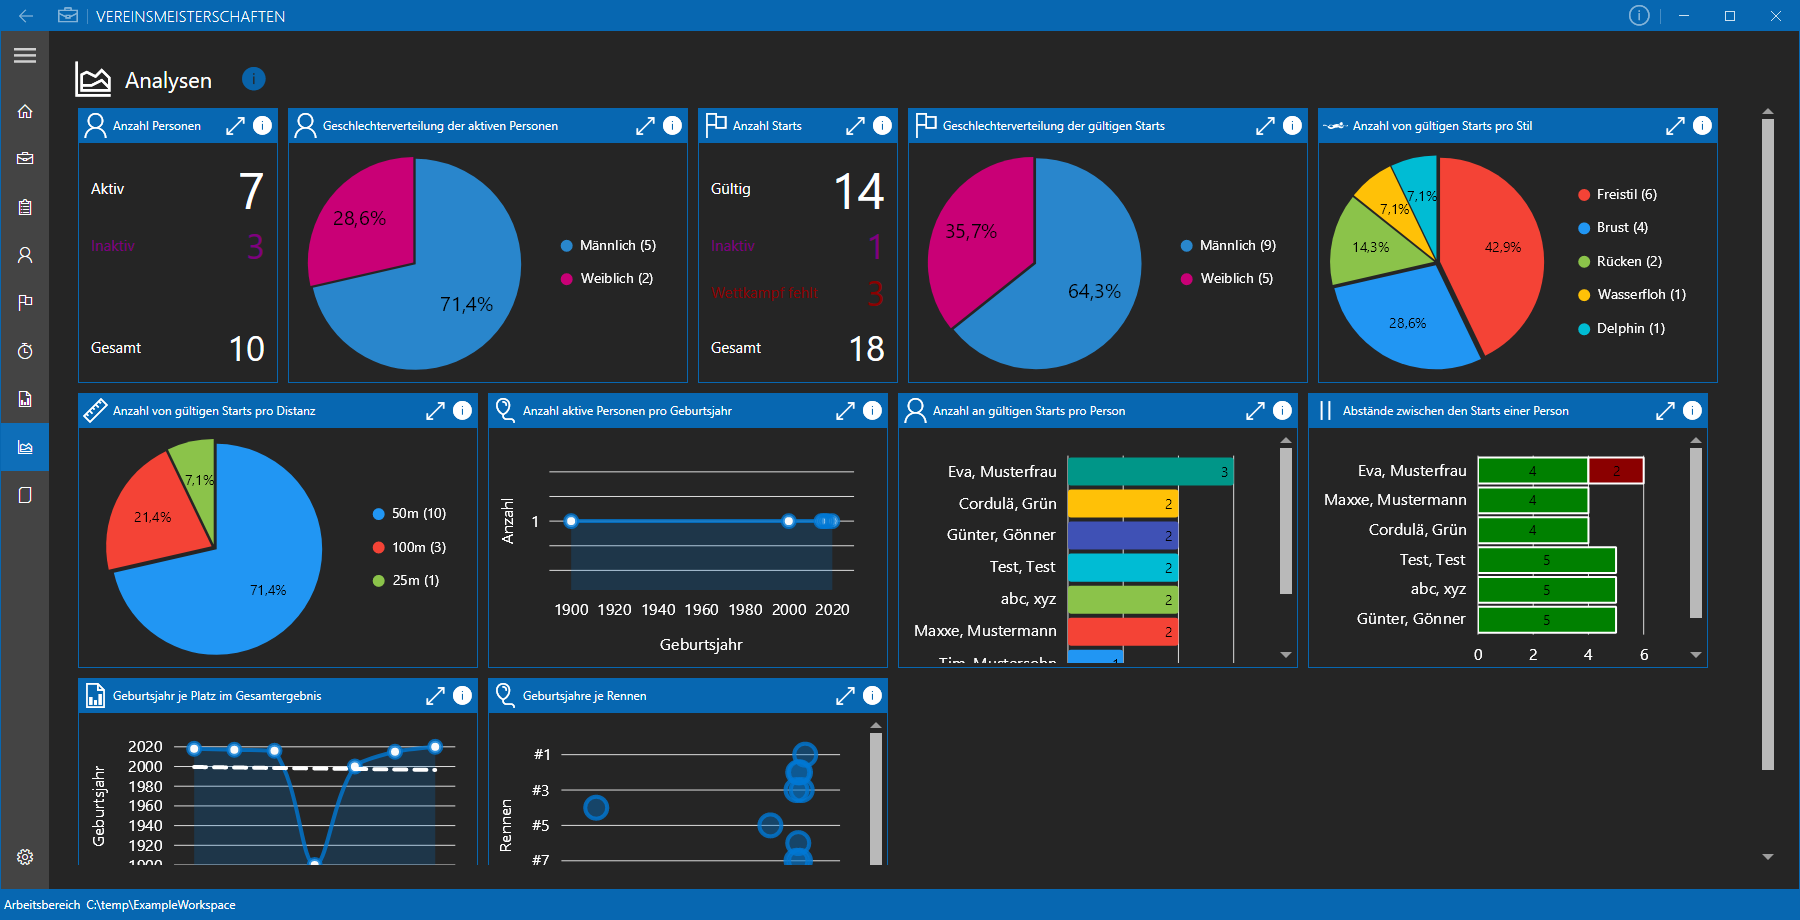
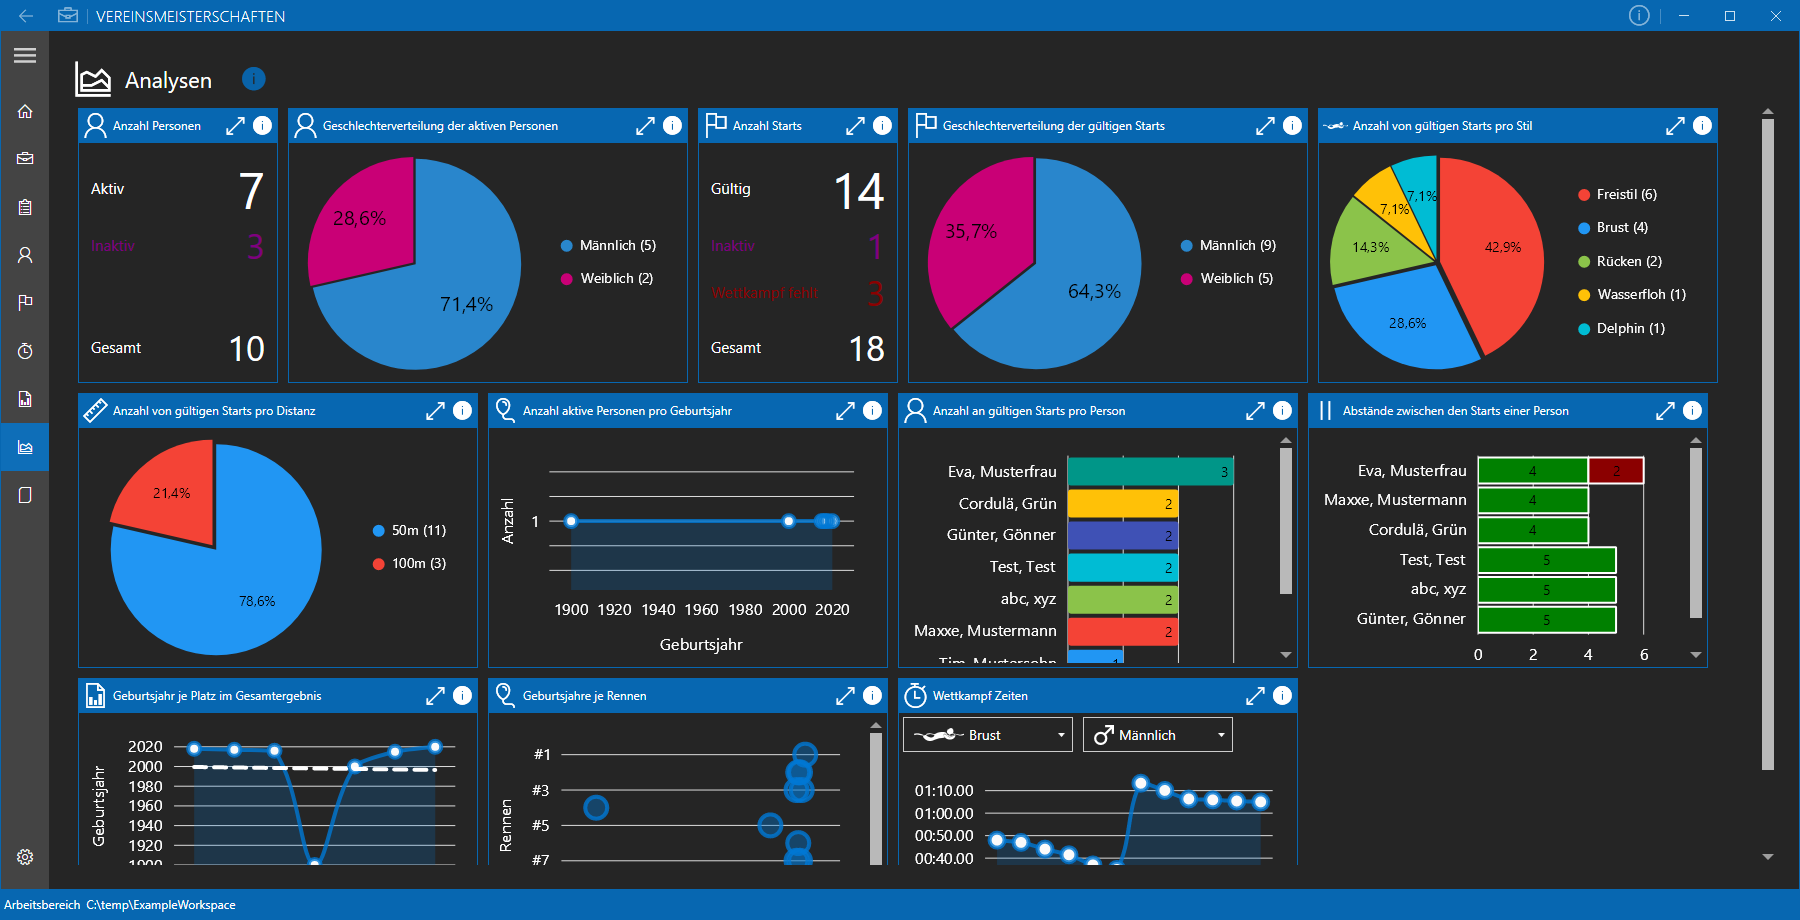
Added diagram for Competition Times vs. Age (#28)

diff --git a/Vereinsmeisterschaften/Views/AnalyticsWidgets/AnalyticsWidgetCompetitionTimes.xaml b/Vereinsmeisterschaften/Views/AnalyticsWidgets/AnalyticsWidgetCompetitionTimes.xaml
@@ -1,0 +1,39 @@
+<local:AnalyticsWidgetBase x:Class="Vereinsmeisterschaften.Views.AnalyticsWidgets.AnalyticsWidgetCompetitionTimes"
+             xmlns="http://schemas.microsoft.com/winfx/2006/xaml/presentation"
+             xmlns:x="http://schemas.microsoft.com/winfx/2006/xaml"
+             xmlns:mc="http://schemas.openxmlformats.org/markup-compatibility/2006" 
+             xmlns:d="http://schemas.microsoft.com/expression/blend/2008" 
+             xmlns:local="clr-namespace:Vereinsmeisterschaften.Views.AnalyticsWidgets"
+             xmlns:liveCharts="clr-namespace:LiveChartsCore.SkiaSharpView.WPF;assembly=LiveChartsCore.SkiaSharpView.WPF"
+             mc:Ignorable="d"
+             DataContext="{Binding RelativeSource={RelativeSource Mode=Self}}"
+             Template="{StaticResource ControlTemplateAnalyticsWidgetBase}">
+
+    <DockPanel LastChildFill="True">
+        <StackPanel DockPanel.Dock="Top" Orientation="Horizontal">
+            <!-- Selection for swimming style -->
+            <ComboBox Width="170" Height="35" VerticalAlignment="Center"
+                      ItemsSource="{Binding AvailableSwimmingStyles}" SelectedItem="{Binding SelectedSwimmingStyle}">
+                <ComboBox.ItemTemplate>
+                    <DataTemplate>
+                        <ContentControl Content="{Binding}" Style="{StaticResource SwimmingStyleWithIconStyle}"/>
+                    </DataTemplate>
+                </ComboBox.ItemTemplate>
+            </ComboBox>
+
+            <!-- Selection for gender -->
+            <ComboBox Margin="10,0,0,0" Width="150" Height="35" VerticalAlignment="Center"
+                      ItemsSource="{Binding Source={StaticResource AvailableGenders}}" SelectedItem="{Binding SelectedGender}">
+                <ComboBox.ItemTemplate>
+                    <DataTemplate>
+                        <ContentControl Content="{Binding}" Style="{StaticResource GenderWithIconStyle}"/>
+                    </DataTemplate>
+                </ComboBox.ItemTemplate>
+            </ComboBox>
+        </StackPanel>
+        
+        <liveCharts:CartesianChart Series="{Binding CompetitionTimesPerAgeSeries}"
+                               XAxes="{Binding XAxes}"
+                               YAxes="{Binding YAxes}"/>
+    </DockPanel>
+</local:AnalyticsWidgetBase>

diff --git a/Vereinsmeisterschaften/Views/AnalyticsWidgets/AnalyticsWidgetCompetitionTimes.xaml.cs b/Vereinsmeisterschaften/Views/AnalyticsWidgets/AnalyticsWidgetCompetitionTimes.xaml.cs
@@ -1,0 +1,144 @@
+using LiveChartsCore;
+using LiveChartsCore.Kernel;
+using LiveChartsCore.Kernel.Events;
+using LiveChartsCore.SkiaSharpView;
+using LiveChartsCore.SkiaSharpView.Painting;
+using SkiaSharp;
+using System.Collections.Generic;
+using System.Windows;
+using System.Windows.Media;
+using Vereinsmeisterschaften.Core.Analytics;
+using Vereinsmeisterschaften.Core.Models;
+
+namespace Vereinsmeisterschaften.Views.AnalyticsWidgets
+{
+    /// <summary>
+    /// Interaktionslogik für AnalyticsWidgetCompetitionTimes.xaml
+    /// </summary>
+    public partial class AnalyticsWidgetCompetitionTimes : AnalyticsWidgetBase
+    {
+        private AnalyticsModuleCompetitionTimes _analyticsModule => AnalyticsModule as AnalyticsModuleCompetitionTimes;
+
+        public AnalyticsWidgetCompetitionTimes(AnalyticsModuleCompetitionTimes analyticsModule) : base(analyticsModule)
+        {
+            _availableSwimmingStyles = Enum.GetValues(typeof(SwimmingStyles)).Cast<SwimmingStyles>().Where(s => s != SwimmingStyles.Unknown).ToList();
+            InitializeComponent();
+        }
+
+        public override string Icon => "\uE916";
+
+        public override void Refresh()
+        {
+            OnPropertyChanged(nameof(CompetitionTimesPerAgeSeries));
+            OnPropertyChanged(nameof(XAxes));
+            OnPropertyChanged(nameof(YAxes));
+            base.Refresh();
+        }
+
+        private List<SwimmingStyles> _availableSwimmingStyles;
+        /// <summary>
+        /// List with all available <see cref="SwimmingStyles"/> without <see cref="SwimmingStyles.Unknown"/>
+        /// </summary>
+        public List<SwimmingStyles> AvailableSwimmingStyles => _availableSwimmingStyles;
+
+        private SwimmingStyles _selectedSwimmingStyle;
+        /// <summary>
+        /// Selected <see cref="SwimmingStyles"/> that is used to display the chart
+        /// </summary>
+        public SwimmingStyles SelectedSwimmingStyle
+        {
+            get => _selectedSwimmingStyle;
+            set { _selectedSwimmingStyle = value; OnPropertyChanged(); OnPropertyChanged(nameof(CompetitionTimesPerAgeSeries)); }
+        }
+
+        private Genders _selectedGender;
+        /// <summary>
+        /// Selected <see cref="Genders"/> that is used to display the chart
+        /// </summary>
+        public Genders SelectedGender
+        {
+            get => _selectedGender;
+            set { _selectedGender = value; OnPropertyChanged(); OnPropertyChanged(nameof(CompetitionTimesPerAgeSeries)); }
+        }
+
+        public ISeries[] CompetitionTimesPerAgeSeries
+        {
+            get
+            {
+                if (_analyticsModule == null || AnalyticsAvailable == false) return null;
+
+                List<ISeries> seriesList = new List<ISeries>();
+
+                List<AnalyticsModuleCompetitionTimes.ModelCompetitionTimes> competitionTimeModels = _analyticsModule.GetCompetitionTimesPerAge(SelectedGender, SelectedSwimmingStyle);
+
+                var series = new LineSeries<AnalyticsModuleCompetitionTimes.ModelCompetitionTimes>
+                {
+                    Values = competitionTimeModels,
+                    Mapping = (model, index) =>
+                    {
+                        return new Coordinate(model.Age, model.Time.TotalMilliseconds);
+                    },
+                    YToolTipLabelFormatter = point =>
+                    {
+                        string tooltipString = $"{Properties.Resources.AgeString}: {point.Model.Age}{Environment.NewLine}{Properties.Resources.TimeString}: {point.Model.Time.ToString(@"mm\:ss\.ff")}";
+                        if(point.Model.IsTimeFromRudolphTable)
+                        {
+                            tooltipString += $"{Environment.NewLine}{Properties.Resources.ParsedFromRudolphTableString}";
+                        }
+                        return tooltipString;
+                    },
+                    Stroke = new SolidColorPaint(ColorPaintMahAppsAccent.Color, 4),
+                    Fill = new SolidColorPaint(ColorPaintMahAppsAccent.Color.WithAlpha(0x33)),     // modify alpha channel for transparency
+                    GeometryStroke = new SolidColorPaint(ColorPaintMahAppsAccent.Color, 4),
+                    GeometrySize = 15
+                }
+                .OnPointMeasured(point =>
+                {
+                    // assign a color to each point depending on the model flags
+                    if (point.Visual is null) return;
+
+                    SolidColorBrush displayColor;
+                    if (point.Model.IsTimeFromRudolphTable)
+                    {
+                        displayColor = Application.Current.Resources["BrushOk"] as SolidColorBrush;
+                        point.Visual.Fill = new SolidColorPaint(SKColor.Parse(displayColor.Color.ToString()));
+                    }
+                });
+                seriesList.Add(series);
+                return seriesList.ToArray();
+            }
+        }
+
+        public Axis[] XAxes =>
+        [
+            new Axis
+            {
+                IsVisible = true,
+                Name = Properties.Resources.AgeString,
+                NamePaint = ColorPaintMahAppsText,
+                NameTextSize = ANALYTICS_WIDGET_AXIS_TEXTSIZE_DEFAULT,
+                LabelsPaint = ColorPaintMahAppsText,
+                TextSize = ANALYTICS_WIDGET_AXIS_TEXTSIZE_DEFAULT,
+                MinStep = 1
+            }
+        ];
+
+        public Axis[] YAxes =>
+        [
+            new Axis
+            {
+                IsVisible = true,
+                NamePaint = ColorPaintMahAppsText,
+                NameTextSize = ANALYTICS_WIDGET_AXIS_TEXTSIZE_DEFAULT,
+                SeparatorsPaint = COLORPAINT_SEPARATORS,
+                LabelsPaint = ColorPaintMahAppsText,
+                TextSize = ANALYTICS_WIDGET_AXIS_TEXTSIZE_DEFAULT,
+                LabelsDensity = 0,
+                Labeler = (value) =>
+                {
+                    return TimeSpan.FromMilliseconds(value).ToString(@"mm\:ss\.ff");
+                }
+            }
+        ];
+    }
+}

diff --git a/Vereinsmeisterschaften.Core/Analytics/AnalyticsModuleCompetitionTimes.cs b/Vereinsmeisterschaften.Core/Analytics/AnalyticsModuleCompetitionTimes.cs
@@ -1,0 +1,54 @@
+using Vereinsmeisterschaften.Core.Contracts.Services;
+using Vereinsmeisterschaften.Core.Helpers;
+using Vereinsmeisterschaften.Core.Models;
+
+namespace Vereinsmeisterschaften.Core.Analytics
+{
+    /// <summary>
+    /// Analytics module to collect the competition times for all ages and all styles
+    /// </summary>
+    public class AnalyticsModuleCompetitionTimes : IAnalyticsModule
+    {
+        #region Model
+        public class ModelCompetitionTimes
+        {
+            public byte Age { get; set; }
+            public TimeSpan Time { get; set; }
+            public bool IsTimeFromRudolphTable { get; set; }
+        }
+        #endregion
+
+        private ICompetitionService _competitionService;
+
+        /// <summary>
+        /// Constructor for the <see cref="AnalyticsModuleCompetitionTimes"/>
+        /// </summary>
+        /// <param name="competitionService"><see cref="ICompetitionService"/> object</param>
+        public AnalyticsModuleCompetitionTimes(ICompetitionService competitionService)
+        {
+            _competitionService = competitionService;
+        }
+
+        /// <inheritdoc/>
+        public bool AnalyticsAvailable => _competitionService.CompetitionCount > 0;
+
+        /// <summary>
+        /// List with <see cref="ModelCompetitionTimes"/> for the requested gender and style
+        /// </summary>
+        /// <param name="gender"><see cref="Genders"/></param>
+        /// <param name="swimmingStyle"><see cref="SwimmingStyles"/></param>
+        /// <returns>List with <see cref="ModelCompetitionTimes"/> objects</returns>
+        public List<ModelCompetitionTimes> GetCompetitionTimesPerAge(Genders gender, SwimmingStyles swimmingStyle)
+            => _competitionService.GetCompetitions()
+                                  .Where(c => c.Gender == gender && c.SwimmingStyle == swimmingStyle)
+                                  .OrderBy(c => c.Age)
+                                  .Select(c => new ModelCompetitionTimes() { Age = c.Age, Time = c.BestTime, IsTimeFromRudolphTable = c.IsTimeFromRudolphTable })
+                                  .ToList();
+
+        /// <inheritdoc/>
+        public DocXPlaceholderHelper.TextPlaceholders CollectDocumentPlaceholderContents() => null;
+
+        /// <inheritdoc/>
+        public List<string> SupportedDocumentPlaceholderKeys => null;
+    }
+}

diff --git a/Vereinsmeisterschaften/App.xaml.cs b/Vereinsmeisterschaften/App.xaml.cs
@@ -105,6 +105,7 @@ public partial class App : Application
         services.AddSingleton<AnalyticsModuleStartDistances>();
         services.AddSingleton<AnalyticsModulePlacesAgeDistribution>();
         services.AddSingleton<AnalyticsModuleRacesAges>();
+        services.AddSingleton<AnalyticsModuleCompetitionTimes>();
         services.AddSingleton<IAnalyticsModule>(sp => sp.GetRequiredService<AnalyticsModuleGenderPersons>());
         services.AddSingleton<IAnalyticsModule>(sp => sp.GetRequiredService<AnalyticsModuleGenderStarts>());
         services.AddSingleton<IAnalyticsModule>(sp => sp.GetRequiredService<AnalyticsModuleStartsPerStyle>());
@@ -116,6 +117,7 @@ public partial class App : Application
         services.AddSingleton<IAnalyticsModule>(sp => sp.GetRequiredService<AnalyticsModuleStartDistances>());
         services.AddSingleton<IAnalyticsModule>(sp => sp.GetRequiredService<AnalyticsModulePlacesAgeDistribution>());
         services.AddSingleton<IAnalyticsModule>(sp => sp.GetRequiredService<AnalyticsModuleRacesAges>());
+        services.AddSingleton<IAnalyticsModule>(sp => sp.GetRequiredService<AnalyticsModuleCompetitionTimes>());
         services.AddSingleton<IDocumentFileConverterSelector, DocumentFileConverterSelector>();
         services.AddSingleton<IDocumentFileConverter, MsWordDocumentFileConverter>();
         services.AddSingleton<IDocumentFileConverter, LibreOfficeDocumentFileConverter>();
@@ -176,6 +178,7 @@ public partial class App : Application
         services.AddSingleton<IAnalyticsWidget, AnalyticsWidgetDistancesBetweenStarts>();
         services.AddSingleton<IAnalyticsWidget, AnalyticsWidgetPlacesAgeDistribution>();
         services.AddSingleton<IAnalyticsWidget, AnalyticsWidgetRacesAges>();
+        services.AddSingleton<IAnalyticsWidget, AnalyticsWidgetCompetitionTimes>();
 
         // Configuration
         services.Configure<AppConfig>(context.Configuration.GetSection(nameof(AppConfig)));

diff --git a/Vereinsmeisterschaften/Properties/Resources.Designer.cs b/Vereinsmeisterschaften/Properties/Resources.Designer.cs
@@ -178,6 +178,15 @@ namespace Vereinsmeisterschaften.Properties {
         }
         
         /// <summary>
+        ///   Sucht eine lokalisierte Zeichenfolge, die Competition Times ähnelt.
+        /// </summary>
+        public static string AnalyticsWidgetCompetitionTimesTitle {
+            get {
+                return ResourceManager.GetString("AnalyticsWidgetCompetitionTimesTitle", resourceCulture);
+            }
+        }
+        
+        /// <summary>
         ///   Sucht eine lokalisierte Zeichenfolge, die Distances between the starts of a person ähnelt.
         /// </summary>
         public static string AnalyticsWidgetDistancesBetweenStartsTitle {
@@ -1495,7 +1504,7 @@ namespace Vereinsmeisterschaften.Properties {
         ///   Sucht eine lokalisierte Zeichenfolge, die The Rudolph Table of the German Swimming Federation (DSV) is a key tool for age-appropriate evaluation of swimming times, developed by Dr. Klaus Rudolph.
         ///It categorizes times achieved from age 8 and up into performance levels using a points system (usually 1-20), with 20 points representing world-class performance.
         ///It is based on an analysis of the all-time best lists for each age group within the DSV and is updated annually to reflect performance trends.
-        ///The table considers performance levels from age 8 un [Rest der Zeichenfolge wurde abgeschnitten]&quot;; ähnelt.
+        ///The table considers performance levels from age 8 [Rest der Zeichenfolge wurde abgeschnitten]&quot;; ähnelt.
         /// </summary>
         public static string RudolphTableExplanationString {
             get {

diff --git a/Vereinsmeisterschaften/Properties/Tooltips.Designer.cs b/Vereinsmeisterschaften/Properties/Tooltips.Designer.cs
@@ -89,6 +89,15 @@ namespace Vereinsmeisterschaften.Properties {
         }
         
         /// <summary>
+        ///   Sucht eine lokalisierte Zeichenfolge, die Analyse the competition times per age and style. ähnelt.
+        /// </summary>
+        public static string TooltipAnalyticsWidgetCompetitionTimes {
+            get {
+                return ResourceManager.GetString("TooltipAnalyticsWidgetCompetitionTimes", resourceCulture);
+            }
+        }
+        
+        /// <summary>
         ///   Sucht eine lokalisierte Zeichenfolge, die Analyse the distances between the starts of a person.
         ///Only active starts are regarded. ähnelt.
         /// </summary>
